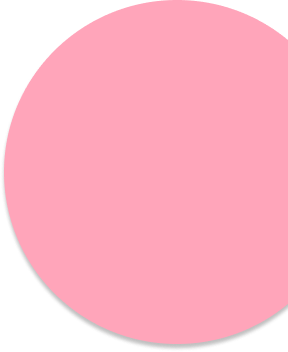
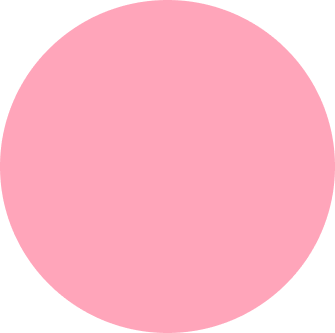
Виправила баг з картинками: дивчина,коло

Changed region(s): [[0.0, 0.0, 1.0, 1.0], [0.5625, 0.0, 1.0, 0.4505]]

diff --git a/src/sass/layout/_hero-header.scss b/src/sass/layout/_hero-header.scss
@@ -193,9 +193,9 @@ margin-right: auto;
       url('../images/header-hero/Ellipse-sm@2x.png');
   }
 
-  background-size: 171px, 410px, 346px, 344px, cover;
+  background-size: 171px, 344px, cover;
   background-repeat: no-repeat;
-  background-position: left 117px top 92px, left 36px top 83px;
+  background-position: left 117px top 92px, left 36px top 79px;
 }
 
 .hero__head {
@@ -305,7 +305,7 @@ margin-right: auto;
         url('../images/hero-header/arrow-right-md@2x.png');
     }
 
-    background-size: 143px, 190px, 335px, 154px, 18px, cover;
+    background-size: 143px, 209px, 335px, 154px, 18px, cover;
     background-repeat: no-repeat;
     background-position: left 322px top 80px, left 546px top 256px,
       left 248px top 43px, left 32px top 246px, top 342px left 184px;
